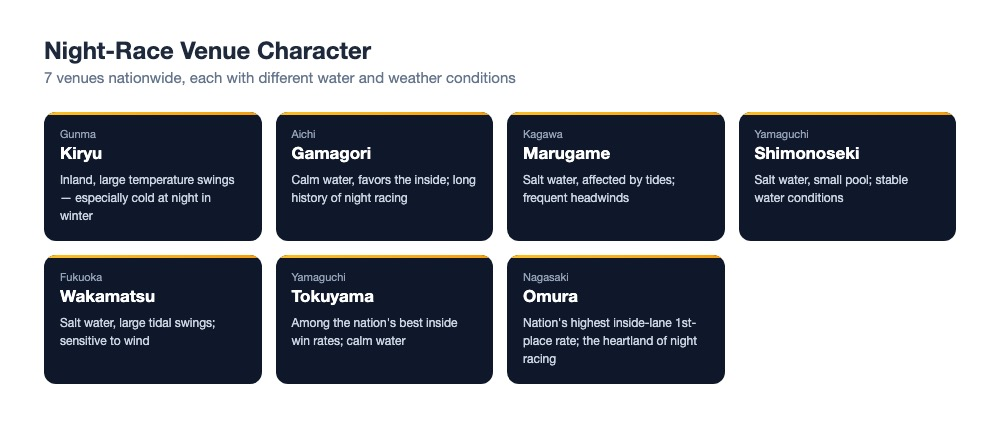
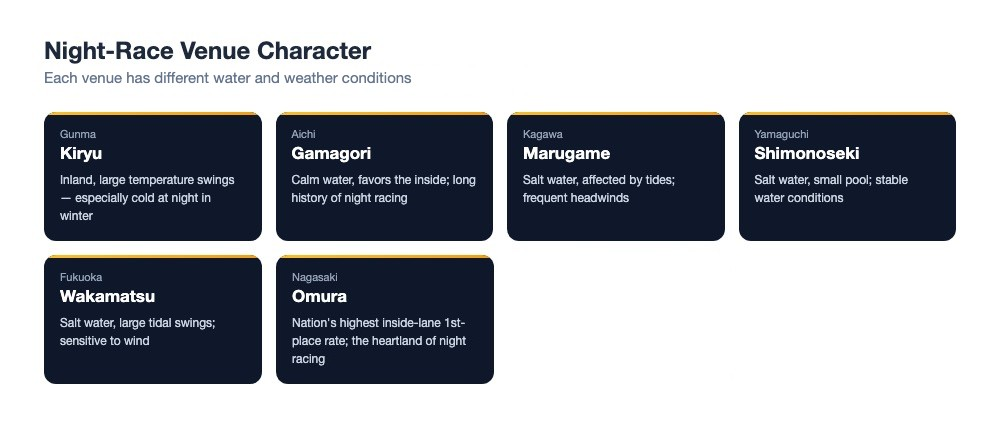
fix: ナイター攻略の記事から、モーニング開催の徳山を外す (#1537)
* fix: ナイター攻略の記事から、モーニング開催の徳山を外す

徳山はモーニングレースの会場（公式レース一覧 jcd=18 hd=20261013 で1R締切08:47、
venueGuidesEn.js も nightRace: false）。ja・en・ko・zh-tw の4本で、
開催場の表・評価表・本文・画像 alt から徳山を外し、「全7場」の数の主張を
「主な会場」に改めた。画像 night-venues-grid-* も徳山のカードと副題の会場数を外した
（寸法は変えていない）。

* fix: ナイター攻略の記事に、表に無い住之江も通年ナイターを開催していると添える

* fix: ナイター攻略の記事の開催場の表に住之江を足し、公式どおり全7場に戻す

---------

Changed region(s): [[0.496, 0.5825, 0.744, 0.9198], [0.031, 0.1533, 0.527, 0.2146], [0.279, 0.6439, 0.465, 0.8585]]

diff --git a/public/blog/night-race-strategy-en.md b/public/blog/night-race-strategy-en.md
@@ -22,13 +22,13 @@ Night races typically run from around **3:00 PM to 8:30 PM**. Because they're ea
 |------|------|
 | **Kiryu** (Gunma) | Inland, large temperature swings — especially cold at night in winter |
 | **Gamagori** (Aichi) | Calm water, favors the inside; long history of night racing |
+| **Suminoe** (Osaka) | Pool-type water surrounded by concrete seawalls; night racing year-round except some races |
 | **Marugame** (Kagawa) | Salt water, affected by tides; frequent headwinds |
 | **Shimonoseki** (Yamaguchi) | Salt water, small pool; stable water conditions |
 | **Wakamatsu** (Fukuoka) | Salt water, large tidal swings; sensitive to wind |
-| **Tokuyama** (Yamaguchi) | Among the nation's best inside win rates; calm water |
 | **Omura** (Nagasaki) | Nation's highest inside-lane 1st-place rate; the heartland of night racing |
 
-![Card grid showing the character of all 7 night-race venues: Kiryu, Gamagori, Marugame, Shimonoseki, Wakamatsu, Tokuyama, and Omura, each with its water and weather conditions](/images/blog/night-venues-grid-en.jpg)
+![Card grid showing the character of the main night-race venues: Kiryu, Gamagori, Marugame, Shimonoseki, Wakamatsu, and Omura, each with its water and weather conditions](/images/blog/night-venues-grid-en.jpg)
 
 ---
 
@@ -58,7 +58,7 @@ Wind tends to **weaken at night** compared to daytime.
 
 **Why:**
 - After sunset, the temperature gradient at ground level shrinks, weakening convection
-- This is especially pronounced at inland Kiryu, and even at bay-adjacent venues like Gamagori, Tokuyama, and Omura
+- This is especially pronounced at inland Kiryu, and even at bay-adjacent venues like Gamagori and Omura
 
 **Impact on your predictions:**
 - Calmer water makes an inside wire-to-wire win more likely
@@ -153,14 +153,13 @@ Not all night-race venues are the same. Understanding each venue's traits matter
 | Marugame | ★★★☆☆ | ★★★☆☆ | Check the tide; the inside is favored at high tide |
 | Shimonoseki | ★★★★☆ | ★★☆☆☆ | Small, stable pool; high inside wire-to-wire rate |
 | Wakamatsu | ★★★☆☆ | ★★★☆☆ | Water conditions shift with wind and tide — rely on the data |
-| Tokuyama | ★★★★★ | ★☆☆☆☆ | Top-tier inside win rate; lane 1 is highly reliable |
 | Omura | ★★★★★ | ★☆☆☆☆ | The inside-lane heartland of night racing; results tend to be predictable |
 
 ---
 
 ## Streamline your night-race predictions with Ryujin Radar
 
-Night races are a genre where understanding the fundamentals can meaningfully raise your hit rate. But researching the water conditions, temperature swings, and each racer's night-racing aptitude across all 7 venues yourself is a lot of work.
+Night races are a genre where understanding the fundamentals can meaningfully raise your hit rate. But researching the water conditions, temperature swings, and each racer's night-racing aptitude across every night-race venue yourself is a lot of work.
 
 **With Ryujin Radar:**
 - All night races across every venue are analyzed by AI in real time

diff --git a/public/blog/night-race-strategy-ko.md b/public/blog/night-race-strategy-ko.md
@@ -20,13 +20,13 @@
 |------|------|
 | **키류**(군마) | 내륙형으로 일교차가 크다. 겨울철 야간에 특히 추워진다 |
 | **가마고리**(아이치) | 정수면으로 인코스 유리. 나이터 역사가 길다 |
+| **스미노에**(오사카) | 콘크리트 호안에 둘러싸인 풀장형 수면. 일부 레이스를 제외하고 연중 나이터 |
 | **마루가메**(가가와) | 해수면, 조수 영향 있음. 맞바람이 많음 |
 | **시모노세키**(야마구치) | 해수면・소형 풀. 안정된 수면 |
 | **와카마츠**(후쿠오카) | 해수면, 조위 변화가 큼. 바람 영향을 받기 쉬움 |
-| **토쿠야마**(야마구치) | 전국 최상위권 인코스 승률. 정수면 |
 | **오무라**(나가사키) | 인코스 1착률 전국 최고 수준. 나이터의 본고장 |
 
-![나이터 개최 경기장 7곳의 특징을 보여주는 카드 그리드. 키류・가마고리・마루가메・시모노세키・와카마츠・토쿠야마・오무라 각각의 수면・기상 조건을 한눈에 표시](/images/blog/night-venues-grid-ko.jpg)
+![주요 나이터 개최 경기장의 특징을 보여주는 카드 그리드. 키류・가마고리・마루가메・시모노세키・와카마츠・오무라 각각의 수면・기상 조건을 한눈에 표시](/images/blog/night-venues-grid-ko.jpg)
 
 ---
 
@@ -56,7 +56,7 @@
 
 **이유:**
 - 일몰 후 지표면의 온도차가 줄어들어 대류가 약해진다
-- 내륙에 위치한 키류는 특히 뚜렷하며, 해안이라도 만 안쪽인 가마고리・토쿠야마・오무라 역시 마찬가지다
+- 내륙에 위치한 키류는 특히 뚜렷하며, 해안이라도 만 안쪽인 가마고리・오무라 역시 마찬가지다
 
 **예측에 미치는 영향:**
 - 수면이 안정되면 인코스 도주가 성공하기 쉬워진다
@@ -151,14 +151,13 @@
 | 마루가메 | ★★★☆☆ | ★★★☆☆ | 조수 간만을 확인. 만조 시 인코스 유리 |
 | 시모노세키 | ★★★★☆ | ★★☆☆☆ | 소형 풀로 안정적. 인코스 도주율 높음 |
 | 와카마츠 | ★★★☆☆ | ★★★☆☆ | 바람과 조위로 수면이 변화. 데이터 중시 |
-| 토쿠야마 | ★★★★★ | ★☆☆☆☆ | 인코스 승률 최상위. 1번정 신뢰도 높음 |
 | 오무라 | ★★★★★ | ★☆☆☆☆ | 나이터의 인코스 성지. 예측 가능한 결과가 많음 |
 
 ---
 
 ## 용신 레이더로 나이터 예측을 효율화
 
-나이터는 특징을 이해하면 적중률을 높이기 쉬운 장르입니다. 하지만 7개 경기장의 수면 특성・기온 변화・선수의 나이터 적응력을 모두 직접 조사하기란 쉽지 않습니다.
+나이터는 특징을 이해하면 적중률을 높이기 쉬운 장르입니다. 하지만 각 나이터 경기장의 수면 특성・기온 변화・선수의 나이터 적응력을 모두 직접 조사하기란 쉽지 않습니다.
 
 **용신 레이더라면:**
 - 전국 모든 나이터 레이스를 실시간으로 AI 분석

diff --git a/public/blog/night-race-strategy.md b/public/blog/night-race-strategy.md
@@ -22,13 +22,13 @@
 |------|------|
 | **桐生**（群馬） | 内陸で気温差が大きい。冬場は特に夜間冷え込む |
 | **蒲郡**（愛知） | 静水面でイン有利。ナイター歴が長い |
+| **住之江**（大阪） | コンクリート護岸に囲まれたプール型水面。一部のレースを除き通年ナイター |
 | **丸亀**（香川） | 海水で潮の影響あり。向かい風が多い |
 | **下関**（山口） | 海水・小型プール。安定した水面 |
 | **若松**（福岡） | 海水で潮位変化が大きい。風の影響を受けやすい |
-| **徳山**（山口） | 全国トップクラスのイン勝率。静水面 |
 | **大村**（長崎） | イン1着率が全国最高水準。ナイターの王道 |
 
-![ナイター開催会場7場の特徴を示すカードグリッド。桐生・蒲郡・丸亀・下関・若松・徳山・大村それぞれの水面・気象条件を一覧表示](/images/blog/night-venues-grid-ja.jpg)
+![主なナイター開催会場の特徴を示すカードグリッド。桐生・蒲郡・丸亀・下関・若松・大村それぞれの水面・気象条件を一覧表示](/images/blog/night-venues-grid-ja.jpg)
 
 ---
 
@@ -58,7 +58,7 @@
 
 **理由:**
 - 日没後は地表の温度差が小さくなり、対流が弱まる
-- 特に内陸の桐生、海沿いでも湾内の蒲郡・徳山・大村は顕著
+- 特に内陸の桐生、海沿いでも湾内の蒲郡・大村は顕著
 
 **予想への影響:**
 - 水面が安定するとイン逃げが決まりやすい
@@ -153,14 +153,13 @@
 | 丸亀 | ★★★☆☆ | ★★★☆☆ | 潮の干満をチェック。満潮時はイン有利 |
 | 下関 | ★★★★☆ | ★★☆☆☆ | 小プールで安定。イン逃げ率高め |
 | 若松 | ★★★☆☆ | ★★★☆☆ | 風と潮位で水面が変化。データ重視で |
-| 徳山 | ★★★★★ | ★☆☆☆☆ | イン勝率トップクラス。1号艇信頼度が高い |
 | 大村 | ★★★★★ | ★☆☆☆☆ | ナイターのイン聖地。堅い決着が多い |
 
 ---
 
 ## 龍神レーダーでナイター予想を効率化
 
-ナイターレースは特徴を理解すれば的中率を上げやすいジャンルです。しかし、7会場の水面特性・気温変化・選手のナイター適性をすべて自分で調べるのは大変です。
+ナイターレースは特徴を理解すれば的中率を上げやすいジャンルです。しかし、各ナイター場の水面特性・気温変化・選手のナイター適性をすべて自分で調べるのは大変です。
 
 **龍神レーダーなら:**
 - 全ナイター場のレースをリアルタイムでAI分析

diff --git a/public/blog/night-race-strategy-zh-tw.md b/public/blog/night-race-strategy-zh-tw.md
@@ -22,13 +22,13 @@
 |------|------|
 | **桐生**（群馬） | 內陸型，日夜溫差大。冬季夜間特別寒冷 |
 | **蒲郡**（愛知） | 靜水面，內道有利。夜間賽歷史悠久 |
+| **住之江**（大阪） | 被混凝土護岸圍繞的泳池型水面。除部分比賽外全年夜間賽 |
 | **丸龜**（香川） | 海水，受潮汐影響。逆風較多 |
 | **下關**（山口） | 海水・小型水池。水面穩定 |
 | **若松**（福岡） | 海水，潮位變化大。易受風勢影響 |
-| **德山**（山口） | 全國頂級的內道勝率。靜水面 |
 | **大村**（長崎） | 全國最高水準的內道第一名率。夜間賽的代表會場 |
 
-![夜間賽全國7個會場的特徵卡片圖：桐生・蒲郡・丸龜・下關・若松・德山・大村，各自的水面與氣象條件一覽](/images/blog/night-venues-grid-zh-tw.jpg)
+![主要夜間賽會場的特徵卡片圖：桐生・蒲郡・丸龜・下關・若松・大村，各自的水面與氣象條件一覽](/images/blog/night-venues-grid-zh-tw.jpg)
 
 ---
 
@@ -58,7 +58,7 @@
 
 **理由：**
 - 日落後地表溫差縮小，對流減弱
-- 內陸的桐生尤其明顯，即使是臨海的蒲郡、德山、大村等灣內會場也有此傾向
+- 內陸的桐生尤其明顯，即使是臨海的蒲郡、大村等灣內會場也有此傾向
 
 **對預測的影響：**
 - 水面穩定，內道逃走更容易成功
@@ -153,14 +153,13 @@
 | 丸龜 | ★★★☆☆ | ★★★☆☆ | 確認潮汐漲退。滿潮時內道有利 |
 | 下關 | ★★★★☆ | ★★☆☆☆ | 小型水池水面穩定。內道逃走率偏高 |
 | 若松 | ★★★☆☆ | ★★★☆☆ | 水面隨風與潮位變化，應重視數據 |
-| 德山 | ★★★★★ | ★☆☆☆☆ | 內道勝率頂級。1號艇信賴度高 |
 | 大村 | ★★★★★ | ★☆☆☆☆ | 夜間賽的內道聖地。多為穩健結局 |
 
 ---
 
 ## 用龍神雷達提升夜間賽預測效率
 
-夜間賽是理解特徵後容易提升命中率的類型。但要自行調查全國7處會場的水面特性、氣溫變化、選手的夜間適應度，是相當費工的。
+夜間賽是理解特徵後容易提升命中率的類型。但要自行調查各夜間賽會場的水面特性、氣溫變化、選手的夜間適應度，是相當費工的。
 
 **使用龍神雷達：**
 - 即時以AI分析所有夜間賽比賽
